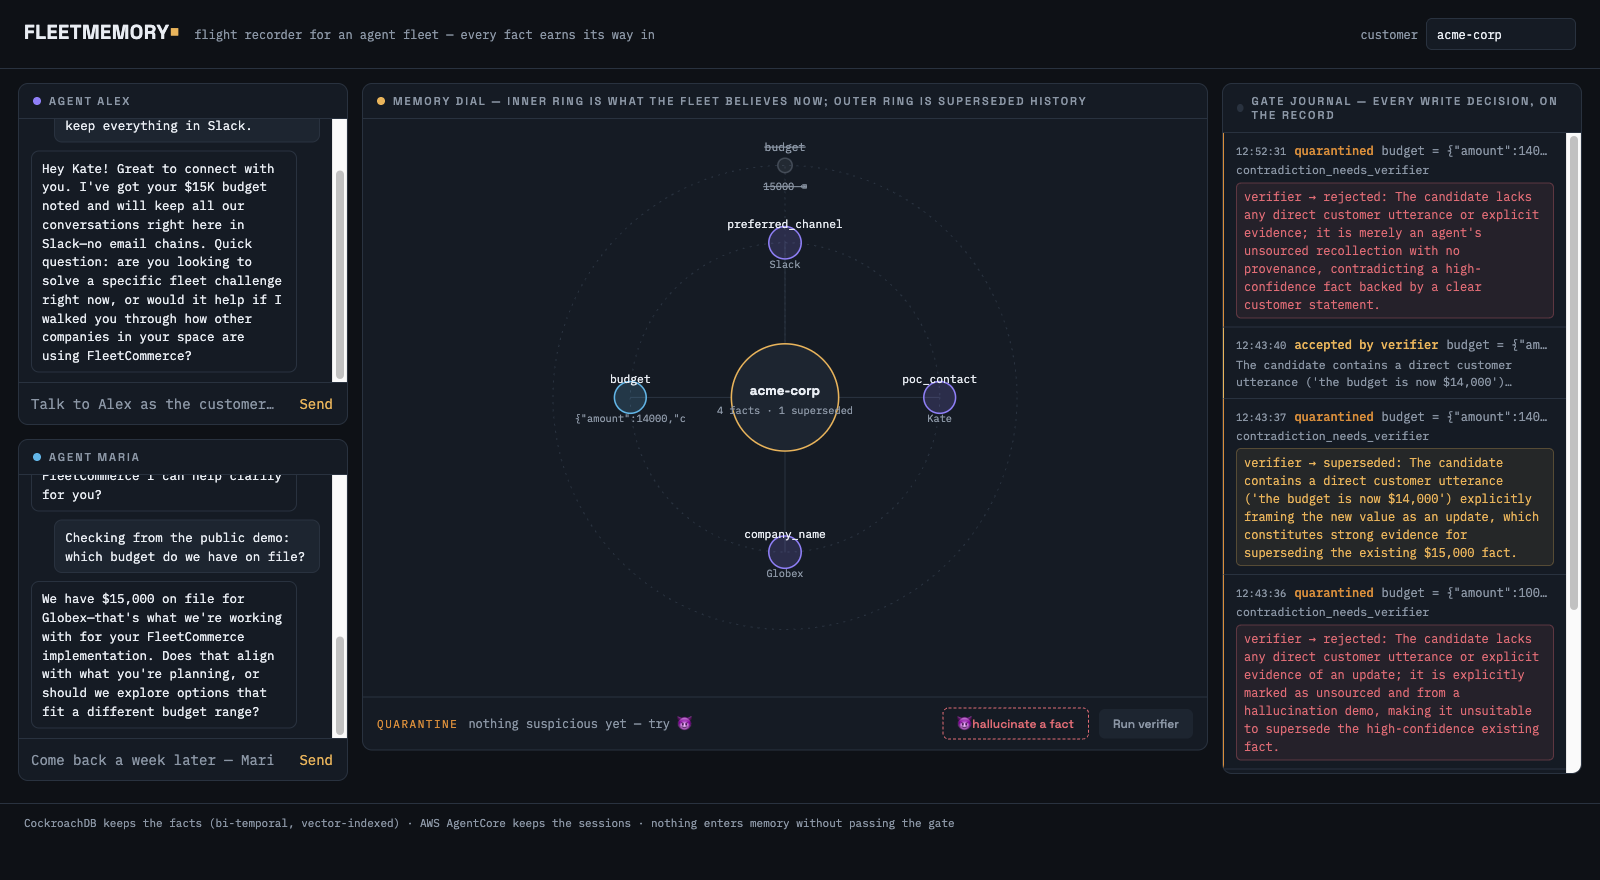
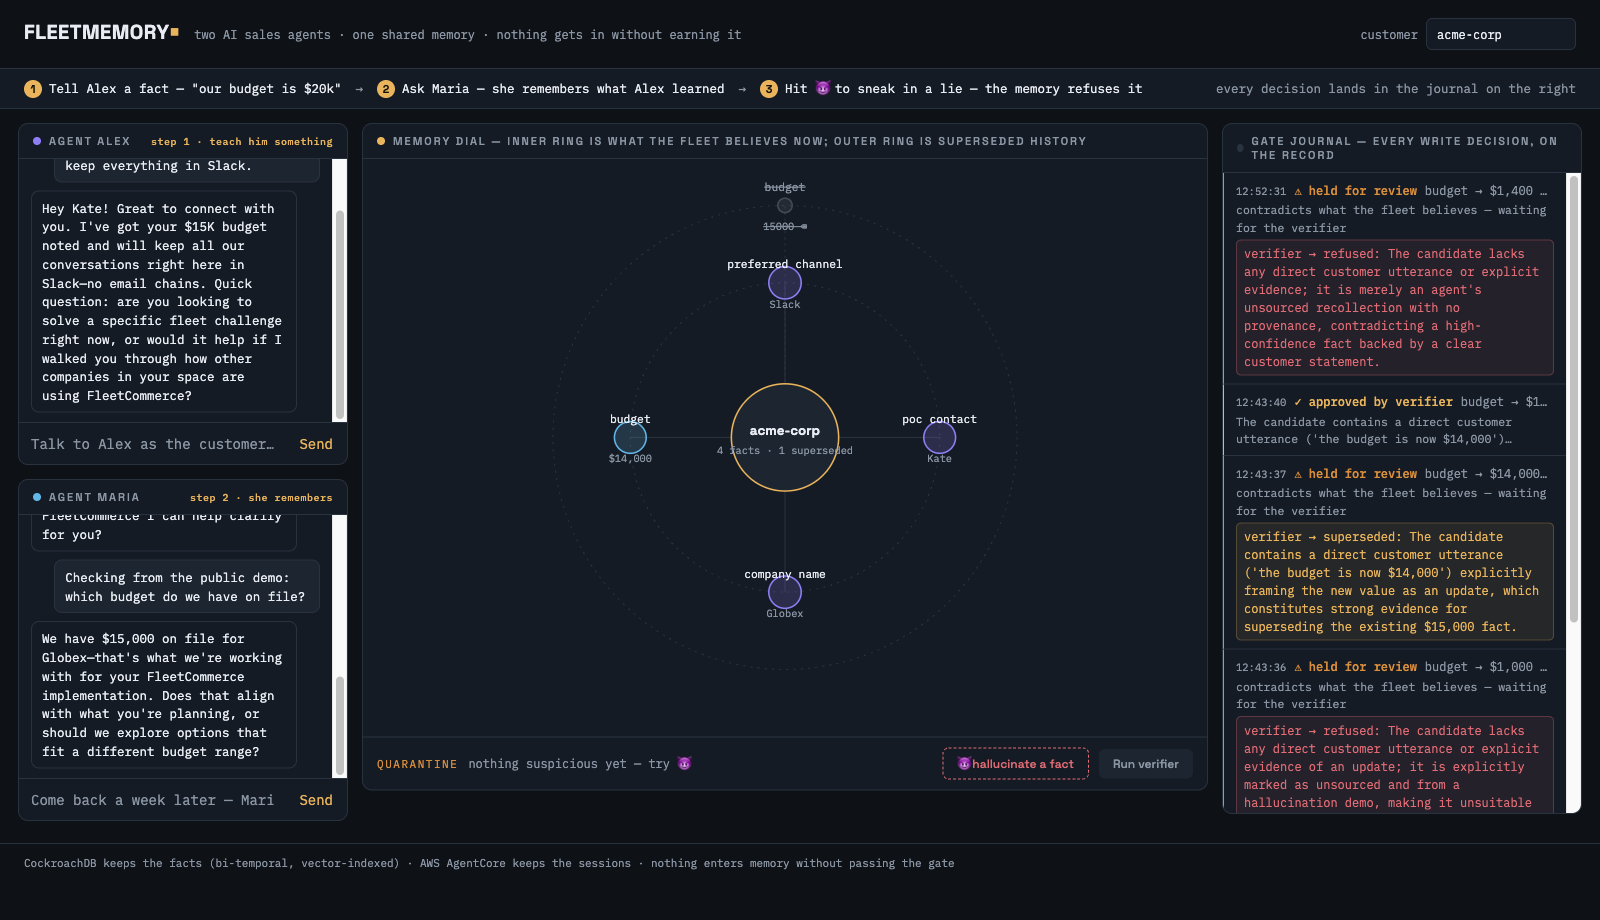
Human-readable layer: story strip, plain-language decisions, formatted values

diff --git a/web/index.html b/web/index.html
@@ -22,6 +22,13 @@ input{font:inherit}
 
 header{display:flex;align-items:baseline;gap:14px;padding:18px 24px;border-bottom:1px solid var(--line);flex-wrap:wrap}
 @media (max-width:900px){header .sub{display:none}}
+
+/* the story strip — tells a first-time visitor what to do, in order */
+.story{display:flex;align-items:center;gap:14px;flex-wrap:wrap;padding:10px 24px;border-bottom:1px solid var(--line);background:var(--panel);font-size:12.5px;color:var(--text)}
+.story .stepn{display:inline-flex;align-items:center;justify-content:center;width:18px;height:18px;border-radius:50%;background:var(--gold);color:#151208;font:700 11px var(--disp);margin-right:7px;flex:none}
+.story .arr{color:var(--muted)}
+.story .why{margin-left:auto;color:var(--muted)}
+@media (max-width:1100px){.story .why{display:none}}
 header h1{font:700 20px var(--disp);letter-spacing:.5px}
 header h1 .dot{color:var(--gold)}
 header .sub{color:var(--muted);font-size:12px}
@@ -34,6 +41,7 @@ header .subject input{background:var(--panel);border:1px solid var(--line);color
 .card{background:var(--panel);border:1px solid var(--line);border-radius:10px;overflow:hidden}
 .card h2{font:500 11px var(--disp);letter-spacing:.18em;text-transform:uppercase;color:var(--muted);padding:10px 14px;border-bottom:1px solid var(--line);display:flex;gap:8px;align-items:center}
 .card h2 .swatch{width:8px;height:8px;border-radius:50%}
+.card h2 .step{margin-left:auto;color:var(--gold);letter-spacing:.05em;font-size:10px;text-transform:none;font-family:var(--mono);white-space:nowrap}
 
 /* chat */
 .chat{display:flex;flex-direction:column;height:305px}
@@ -110,14 +118,23 @@ footer{padding:10px 24px;color:var(--muted);font-size:11px;border-top:1px solid 
 <body>
 <header>
   <h1>FLEETMEMORY<span class="dot">▪</span></h1>
-  <span class="sub">flight recorder for an agent fleet — every fact earns its way in</span>
+  <span class="sub">two AI sales agents · one shared memory · nothing gets in without earning it</span>
   <span class="subject">customer <input id="subject" value="acme-corp" aria-label="Customer key"></span>
 </header>
+
+<div class="story" role="note" aria-label="How to try the demo">
+  <span><span class="stepn">1</span>Tell Alex a fact — "our budget is $20k"</span>
+  <span class="arr">→</span>
+  <span><span class="stepn">2</span>Ask Maria — she remembers what Alex learned</span>
+  <span class="arr">→</span>
+  <span><span class="stepn">3</span>Hit 😈 to sneak in a lie — the memory refuses it</span>
+  <span class="why">every decision lands in the journal on the right</span>
+</div>
 
 <div class="grid">
   <div>
     <div class="card" style="margin-bottom:14px">
-      <h2><span class="swatch" style="background:var(--violet)"></span>Agent Alex</h2>
+      <h2><span class="swatch" style="background:var(--violet)"></span>Agent Alex<span class="step">step 1 · teach him something</span></h2>
       <div class="chat" id="chat-sdr-alex">
         <div class="msgs"></div>
         <div class="typing">alex is thinking…</div>
@@ -125,7 +142,7 @@ footer{padding:10px 24px;color:var(--muted);font-size:11px;border-top:1px solid 
       </div>
     </div>
     <div class="card">
-      <h2><span class="swatch" style="background:var(--sky)"></span>Agent Maria</h2>
+      <h2><span class="swatch" style="background:var(--sky)"></span>Agent Maria<span class="step">step 2 · she remembers</span></h2>
       <div class="chat" id="chat-sdr-maria">
         <div class="msgs"></div>
         <div class="typing">maria is thinking…</div>
@@ -161,6 +178,35 @@ const subjectEl=$("#subject");
 const AGENT_COLOR={"sdr-alex":"var(--violet)","sdr-maria":"var(--sky)"};
 let state={facts:[],journal:[],pending:0};
 
+// speak human, not machine: $14,000 instead of {"amount":14000,"currency":"USD"}
+function fmtVal(o){
+  if(o==null)return "?";
+  if(typeof o!=="object")return String(o);
+  if(o.amount!=null){
+    const cur=o.currency==="USD"?"$":(o.currency?o.currency+" ":"");
+    return cur+Number(o.amount).toLocaleString("en-US");
+  }
+  if(o.value!=null)return String(o.value);
+  return JSON.stringify(o);
+}
+const DECISION_LABEL={
+  accepted:"✓ accepted",
+  accepted_superseding:"✓ accepted — update",
+  accepted_by_verifier:"✓ approved by verifier",
+  quarantined:"⚠ held for review",
+  rejected:"✕ refused",
+};
+const REASON_LABEL={
+  clean:"passed every check",
+  contradiction_needs_verifier:"contradicts what the fleet believes — waiting for the verifier",
+  duplicate:"already known — nothing to add",
+  junk_predicate:"refused: empty field name",
+  junk_object:"refused: empty value",
+  low_confidence:"refused: too uncertain to store",
+  oversized_object:"refused: value too large",
+  contradiction_resolved_by_confidence:"stronger evidence — belief updated",
+};
+
 async function fetchState(){
   try{
     const r=await fetch(`/api/state?subject=${encodeURIComponent(subjectEl.value)}`);
@@ -179,11 +225,11 @@ function renderDial(){
     const a=-Math.PI/2+(2*Math.PI*i)/Math.max(n,1);
     const x=cx+r*Math.cos(a), y=cy+r*Math.sin(a);
     const col=ghost?"var(--muted)":(AGENT_COLOR[f.agent]||"var(--gold)");
-    const val=typeof f.object==="object"?(f.object.value??JSON.stringify(f.object)):f.object;
+    const val=fmtVal(f.object);
     return `<g class="node${ghost?" ghost":""}">
       <line x1="${cx}" y1="${cy}" x2="${x}" y2="${y}" stroke="var(--line)" stroke-width="1" ${ghost?'stroke-dasharray="2 4"':""}/>
       <circle cx="${x}" cy="${y}" r="${ghost?7:10+6*(f.confidence||0.5)}" fill="${col}" fill-opacity=".18" stroke="${col}" stroke-width="1.5"/>
-      <text x="${x}" y="${y-14}" text-anchor="middle">${esc(f.predicate)}</text>
+      <text x="${x}" y="${y-14}" text-anchor="middle">${esc(f.predicate.replaceAll("_"," "))}</text>
       <text class="val" x="${x}" y="${y+24}" text-anchor="middle">${esc(String(val).slice(0,18))}${ghost?" ⌫":""}</text>
     </g>`;
   };
@@ -208,13 +254,14 @@ function renderJournal(){
     const p=j.payload||{}; const t=j.ts.slice(11,19);
     const key=j.ts+(j.resolution||"");
     const fresh=!firstPaint&&!seenRows.has(key);
-    const conf=(typeof p.confidence==="number")?` · conf ${p.confidence}`:"";
-    const what=p.predicate?`${esc(p.predicate)} = ${esc(JSON.stringify((p.object||{}).value??p.object))}${esc(conf)}`:"";
-    const res=j.resolution?`<div class="res ${esc(j.resolution)}">verifier → ${esc(j.resolution)}: ${esc(j.resolution_reason||"")}</div>`:"";
+    const conf=(typeof p.confidence==="number")?` · confidence ${Math.round(p.confidence*100)}%`:"";
+    const what=p.predicate?`${esc(p.predicate.replaceAll("_"," "))} → ${esc(fmtVal(p.object))}${esc(conf)}`:"";
+    const resWord=j.resolution==="rejected"?"refused":j.resolution;
+    const res=j.resolution?`<div class="res ${esc(j.resolution)}">verifier → ${esc(resWord)}: ${esc(j.resolution_reason||"")}</div>`:"";
     return `<div class="jrow ${esc(j.decision)}${fresh?" new":""}" title="${esc(j.reason||"")}">
-      <div class="head"><span class="t">${esc(t)}</span><span class="d">${esc(j.decision.replaceAll("_"," "))}</span>
+      <div class="head"><span class="t">${esc(t)}</span><span class="d">${esc(DECISION_LABEL[j.decision]||j.decision.replaceAll("_"," "))}</span>
       <span class="what" title="${what}">${what}</span></div>
-      <div class="reason">${esc(j.reason||"")}</div>${res}</div>`;
+      <div class="reason">${esc(REASON_LABEL[j.reason]||j.reason||"")}</div>${res}</div>`;
   }).join("");
   seenRows=new Set(state.journal.map(j=>j.ts+(j.resolution||"")));
 }
@@ -226,7 +273,7 @@ function renderTray(){
   const draw=()=>{
     chips.innerHTML=pend.length?pend.map(j=>{
       const p=j.payload||{};
-      return `<span class="chip">${esc(p.predicate)} = ${esc(JSON.stringify((p.object||{}).value??"?"))}</span>`;
+      return `<span class="chip">${esc((p.predicate||"?").replaceAll("_"," "))} → ${esc(fmtVal(p.object))}</span>`;
     }).join(""):'<span class="empty">nothing suspicious yet — try 😈</span>';
     $("#runVerifier").disabled=!pend.length;
   };
